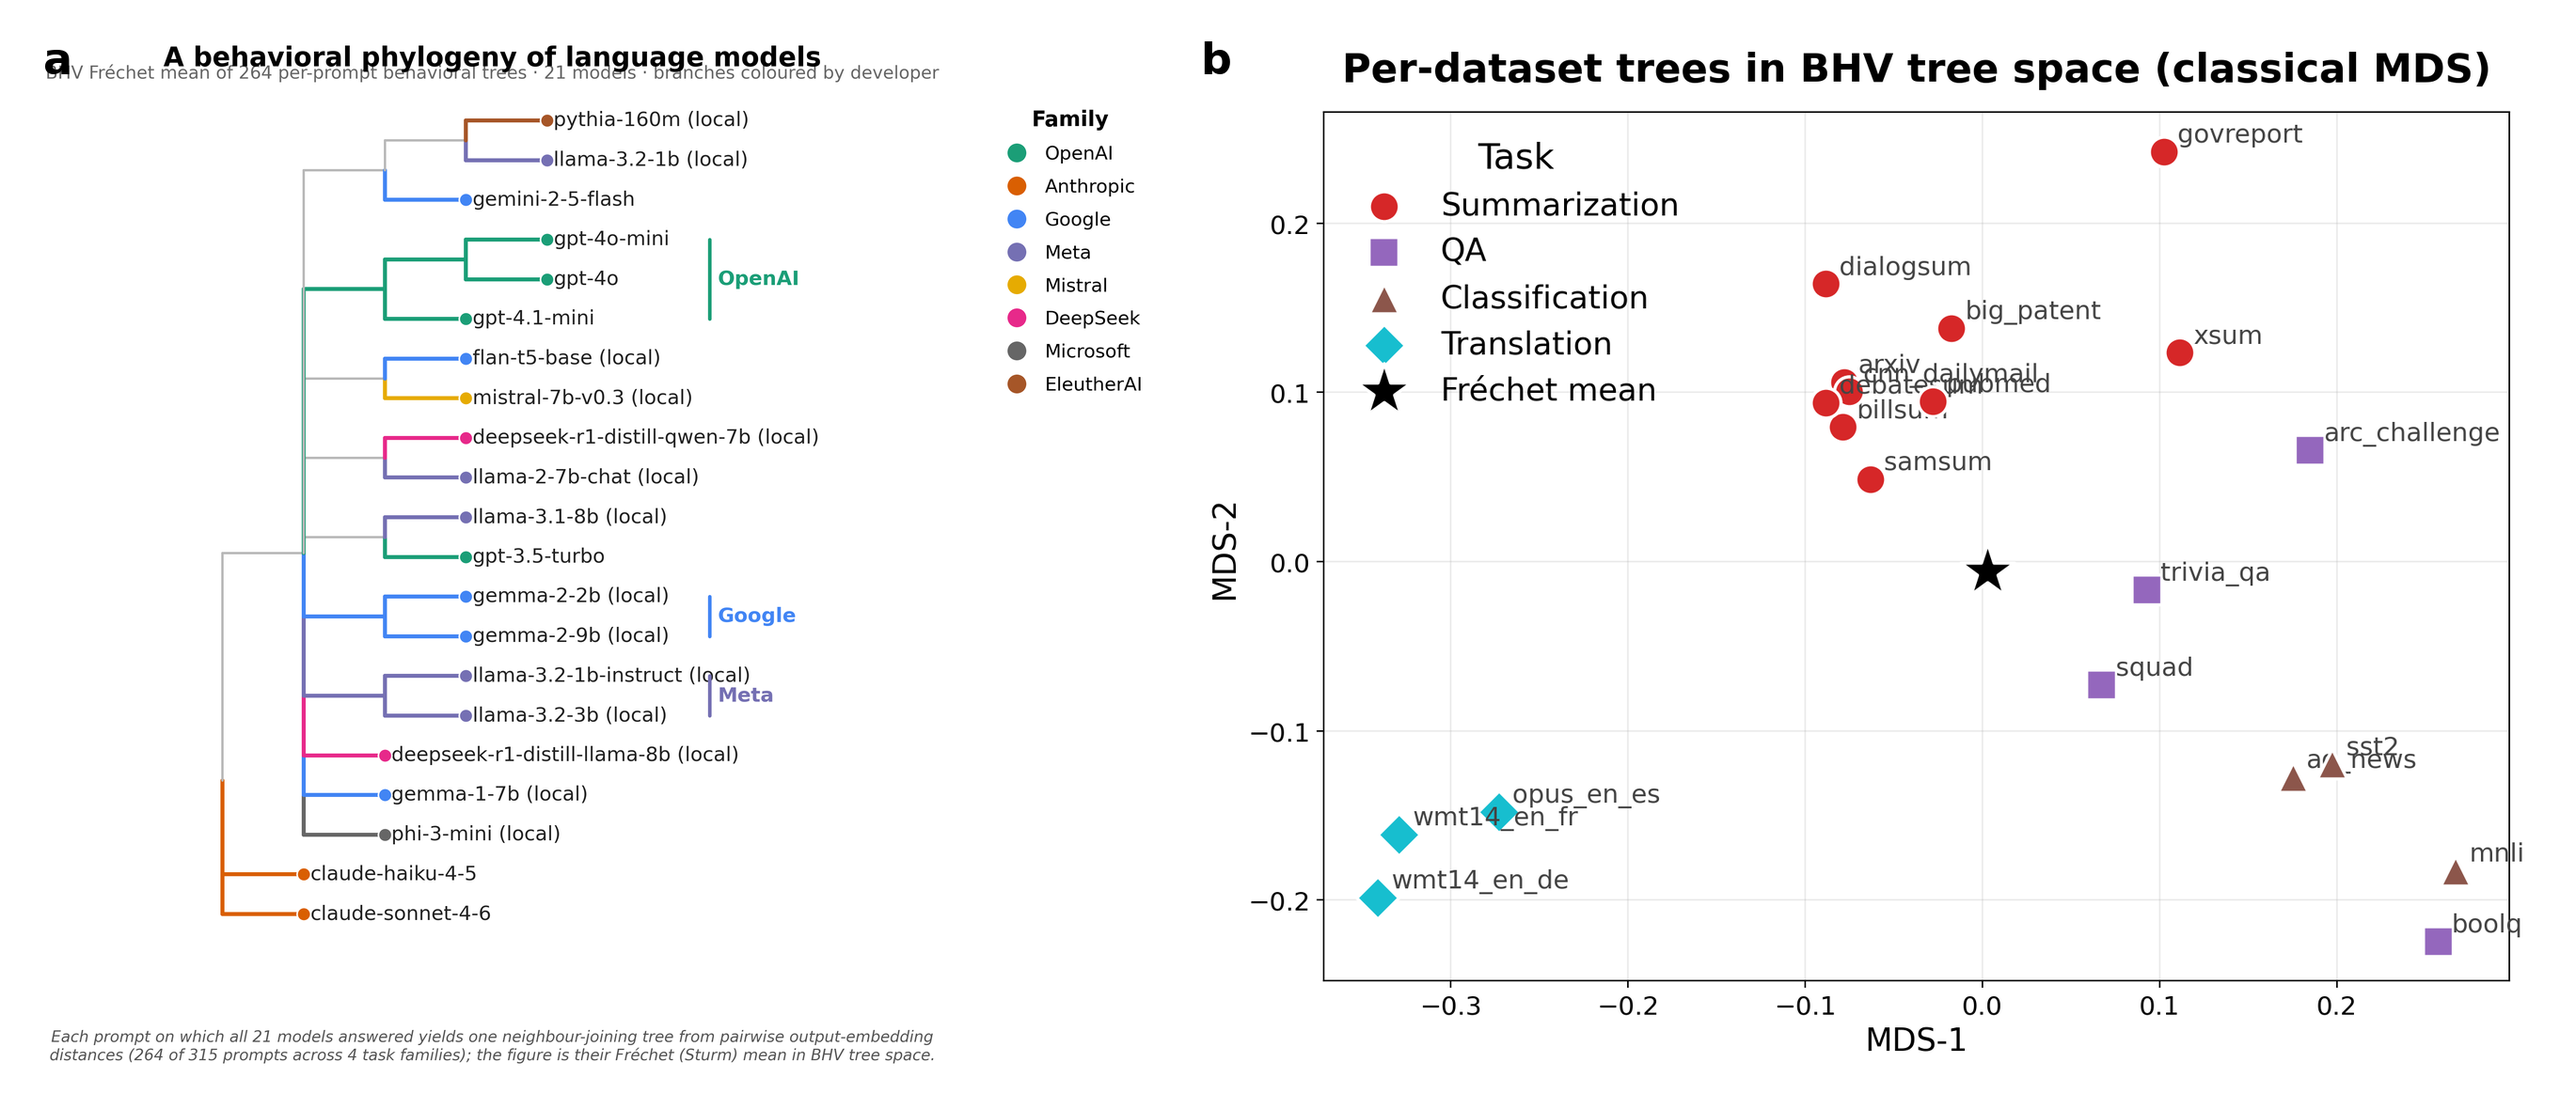
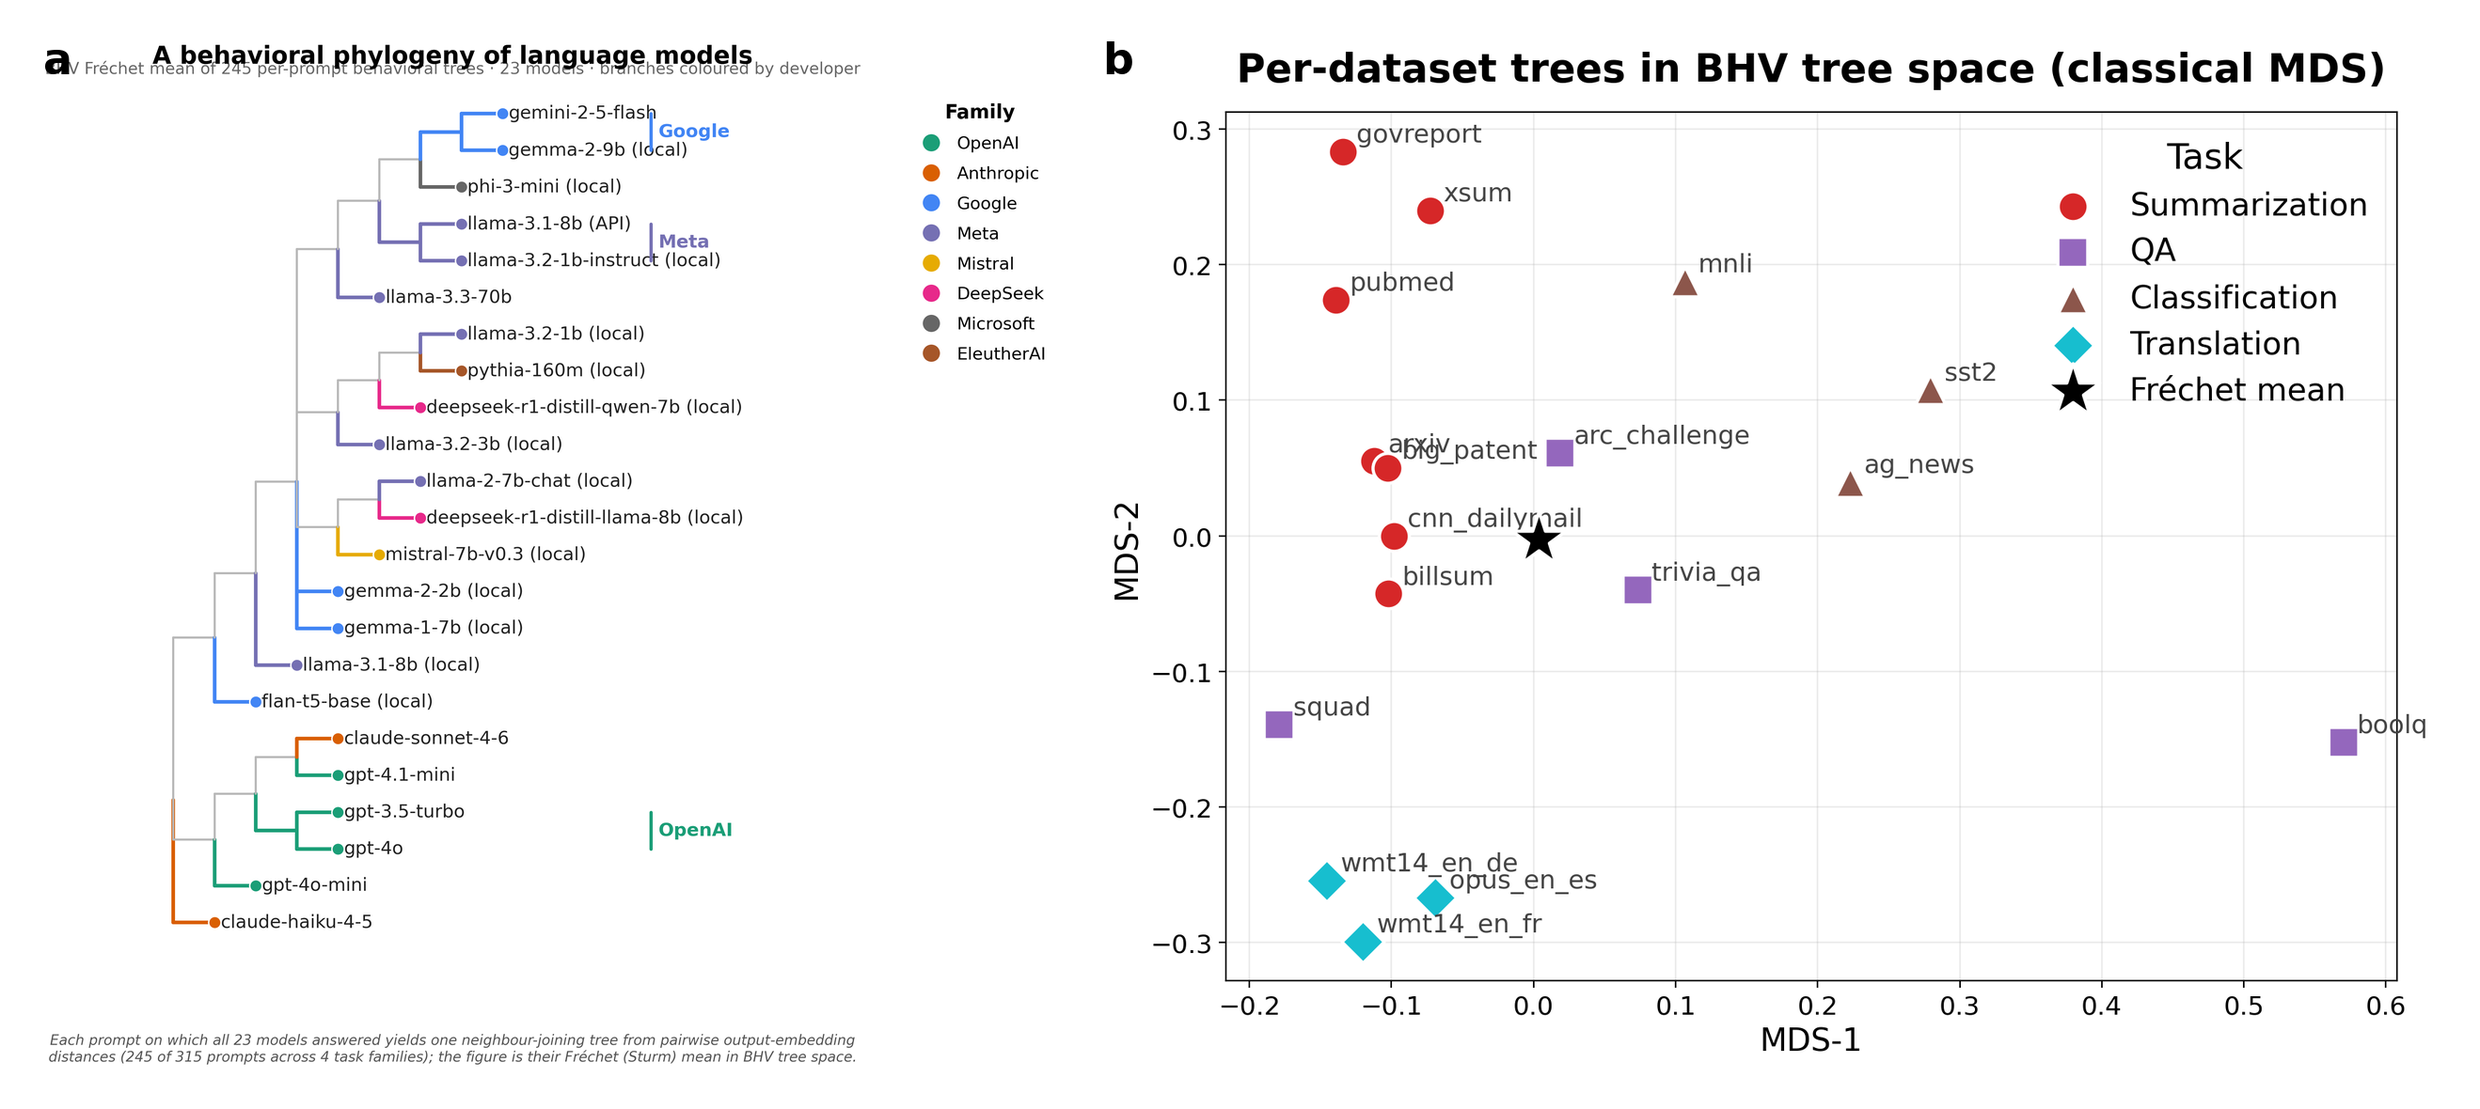
Blackbox: refresh hero to 23 models, task-variability text, appendix frechet grid

diff --git a/paper_v2.tex b/paper_v2.tex
@@ -15,6 +15,10 @@
 \newtheorem{theorem}{Theorem}
 \newtheorem{corollary}{Corollary}
 \newtheorem{assumption}{Assumption}
+\newtheorem{proposition}{Proposition}
+\theoremstyle{definition}
+\newtheorem{definition}{Definition}
+\theoremstyle{plain}
 \newcommand{\bd}{\mathbf{d}}
 \newcommand{\bsig}{\mathbf{s}}
 \newcommand{\bnoise}{\mathbf{n}}
@@ -692,16 +696,16 @@ full weight    & 282 tensors & \multicolumn{5}{l}{FN $0.33 \pm 0.19$ (reference)
     \includegraphics[width=\linewidth]{\figpath/hero_phylogeny_treespace.png}
   \end{center}
   \caption{\textbf{A behavioral phylogeny of frontier and open models, with its support in tree space.}
-    \textbf{(a)} Billera--Holmes--Vogtmann (BHV) Fr\'echet (Sturm) mean of 20 per-dataset
-    neighbor-joining trees, each built from pairwise output-embedding distances over four task
-    families (16 models common to all tasks); branches are coloured by developer. The mean is rendered
-    as a cladogram because its internal edges are short ($\sim$3\% of total edge length), so topology
-    is more informative than scaled branch length. Claude Sonnet and Haiku form the most stable clade
-    (sisters in 80\% of per-dataset trees); the GPT family and the Llama pair are also recovered.
-    \textbf{(b)} The same 20 per-dataset trees embedded in BHV tree space (classical MDS of pairwise
-    geodesic distances). Trees group by task---summarization tightest, translation the clear
-    outlier---and the Fr\'echet mean ($\star$) lies at the centre, confirming the averaged phylogeny
-    in (a) is representative rather than an artifact of any single task.}
+    \textbf{(a)} Billera--Holmes--Vogtmann (BHV) Fr\'echet (Sturm) mean of $n=245$ per-prompt
+    neighbor-joining trees, each built from pairwise output-embedding distances (the 245 of 315
+    prompts on which all 23 common models answered, across four task families); branches are coloured
+    by developer. The mean is rendered as a cladogram because its internal edges are short ($\sim$3\%
+    of total edge length), so topology is more informative than scaled branch length. Claude Sonnet
+    and Haiku form the most stable clade; the GPT family and the Llama pair are also recovered.
+    \textbf{(b)} The 17 per-dataset trees (four task families, 23 models) embedded in BHV tree space
+    (classical MDS of pairwise geodesic distances). Trees group by task---summarization tightest,
+    translation the clear outlier---and the Fr\'echet mean ($\star$) lies at the centre, confirming
+    the averaged phylogeny in (a) is representative rather than an artifact of any single task.}
   \label{fig:blackbox_hero}
 \end{figure}
 
@@ -722,6 +726,11 @@ task.
   \item Multi-task aggregation is therefore necessary: the Fr\'echet mean sits at the centre of the
     per-dataset trees, recovering family structure that single-task probes miss.
 \end{itemize}
+
+The per-task disagreement is substantial: pairwise normalized Robinson--Foulds distance among the
+four per-task Fr\'echet trees ranges from $0.65$ to $0.95$ (mean $\approx 0.84$), so no single task
+reproduces the aggregate topology. The four per-task trees are shown side by side with the aggregate
+in Appendix~\ref{app:blackbox} (Figure~\ref{fig:frechet_grid}).
 
 
 % -----------------------------------------------------------------------
@@ -998,6 +1007,18 @@ Base model: Flan-T5-base (250M parameters). Each node trained for 2,000 steps, l
 % Models, API versions, prompt templates, sentence-transformer embeddings.
 
 \TODO{Fill blackbox details (model list, API versions, prompt templates, ST embeddings).}
+
+\begin{figure}[h]
+  \begin{center}
+    \includegraphics[width=\linewidth]{\figpath/frechet_grid_tasks.png}
+  \end{center}
+  \caption{\textbf{Per-task behavioral phylogenies (BHV Fr\'echet means).} The cross-task aggregate
+    (top-left) and the four per-task Fr\'echet trees (summarization, QA, classification, translation),
+    each over the 23 models common to all tasks and rendered as cladograms. Topologies differ
+    substantially across tasks (pairwise normalized Robinson--Foulds $0.65$--$0.95$), which motivates
+    the multi-task aggregation reported in \S\ref{sec:results:blackbox}.}
+  \label{fig:frechet_grid}
+\end{figure}
 
 \section{Metric Selection: SNR Analysis}
 \label{app:snr}
